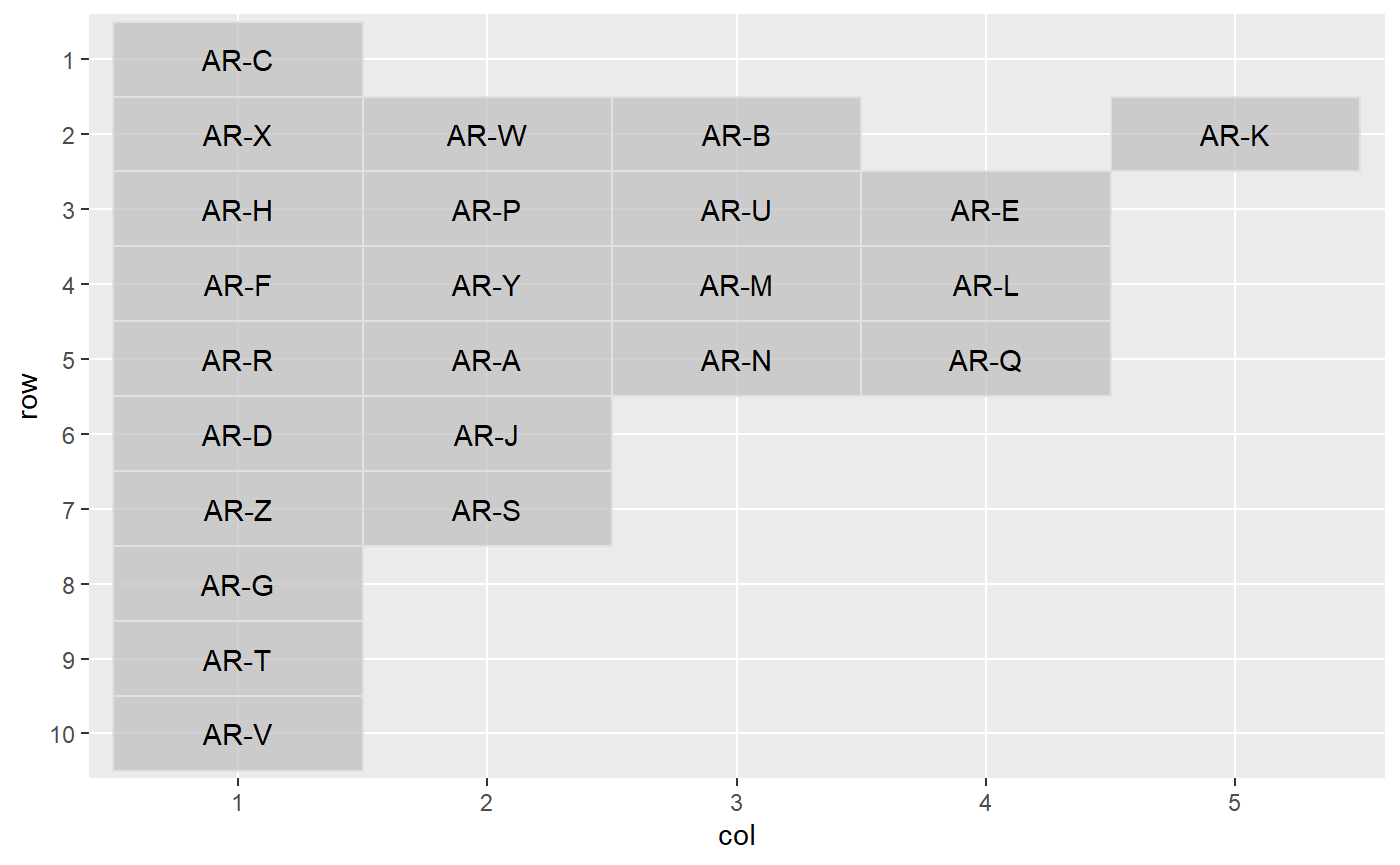
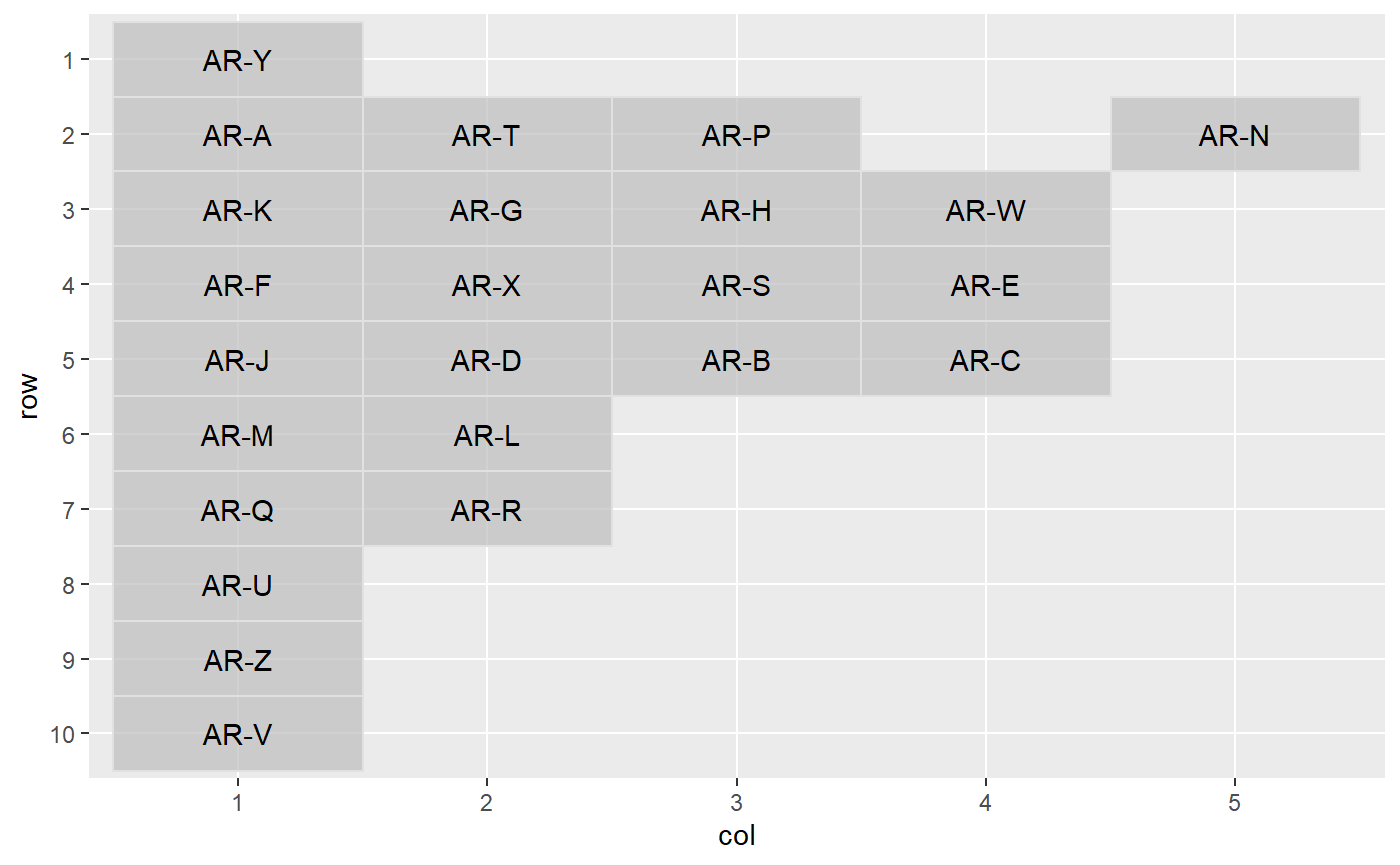
fix site example bugs
recode_district()

diff --git a/docs/articles/recodificacion.html b/docs/articles/recodificacion.html
@@ -94,6 +94,7 @@
     
 <div class="sourceCode" id="cb1"><html><body><pre class="r"><span class="fu"><a href="https://rdrr.io/r/base/library.html">library</a></span>(<span class="no">geofaceteAR</span>)
 <span class="co">#&gt; Loading required package: geofacet</span>
+<span class="co">#&gt; Warning: package 'geofacet' was built under R version 3.6.3</span>
 <span class="co">#&gt; Registered S3 method overwritten by 'geofacet':</span>
 <span class="co">#&gt;   method from   </span>
 <span class="co">#&gt;   +.gg   ggplot2</span>
@@ -139,31 +140,31 @@
 <span class="no">argentina_indec</span> <span class="kw">&lt;-</span> <span class="fu"><a href="../reference/get_grid.html">get_grid</a></span>(<span class="st">"ARGENTINA"</span>) <span class="kw">%&gt;%</span>
   <span class="fu"><a href="../reference/recode_district.html">recode_district</a></span>(<span class="kw">type</span> <span class="kw">=</span> <span class="st">"indec"</span>)</pre></body></html></div>
 <p>Imprimimoos los de <code>argentina_indec</code> y observamos los cambios en <code>code</code>:</p>
-<pre><code>#&gt;    name_provincia row col code                name
-#&gt; 1       ARGENTINA   1   1   02               JUJUY
-#&gt; 2       ARGENTINA   2   3   06             FORMOSA
-#&gt; 3       ARGENTINA   2   5   10            MISIONES
-#&gt; 4       ARGENTINA   2   1   14               SALTA
-#&gt; 5       ARGENTINA   2   2   18             TUCUMAN
-#&gt; 6       ARGENTINA   3   1   22           CATAMARCA
-#&gt; 7       ARGENTINA   3   3   26               CHACO
-#&gt; 8       ARGENTINA   3   4   30          CORRIENTES
-#&gt; 9       ARGENTINA   3   2   34 SANTIAGO DEL ESTERO
-#&gt; 10      ARGENTINA   4   2   38             CORDOBA
-#&gt; 11      ARGENTINA   4   4   42          ENTRE RIOS
-#&gt; 12      ARGENTINA   4   1   46            LA RIOJA
-#&gt; 13      ARGENTINA   4   3   50            SANTA FE
-#&gt; 14      ARGENTINA   5   3   54        BUENOS AIRES
-#&gt; 15      ARGENTINA   5   4   58                CABA
-#&gt; 16      ARGENTINA   5   1   62            SAN JUAN
-#&gt; 17      ARGENTINA   5   2   66            SAN LUIS
-#&gt; 18      ARGENTINA   6   2   70            LA PAMPA
-#&gt; 19      ARGENTINA   6   1   74             MENDOZA
-#&gt; 20      ARGENTINA   7   1   78             NEUQUEN
-#&gt; 21      ARGENTINA   7   2   82           RIO NEGRO
-#&gt; 22      ARGENTINA   8   1   86              CHUBUT
-#&gt; 23      ARGENTINA   9   1   90          SANTA CRUZ
-#&gt; 24      ARGENTINA  10   1   94    TIERRA DEL FUEGO</code></pre>
+<pre><code>#&gt;    row col                name code
+#&gt; 1    1   1               JUJUY   38
+#&gt; 2    2   3             FORMOSA   34
+#&gt; 3    2   5            MISIONES   54
+#&gt; 4    2   1               SALTA   66
+#&gt; 5    2   2             TUCUMAN   90
+#&gt; 6    3   1           CATAMARCA   10
+#&gt; 7    3   3               CHACO   22
+#&gt; 8    3   4          CORRIENTES   18
+#&gt; 9    3   2 SANTIAGO DEL ESTERO   86
+#&gt; 10   4   2             CORDOBA   14
+#&gt; 11   4   4          ENTRE RIOS   30
+#&gt; 12   4   1            LA RIOJA   46
+#&gt; 13   4   3            SANTA FE   82
+#&gt; 14   5   3        BUENOS AIRES   06
+#&gt; 15   5   4                CABA   02
+#&gt; 16   5   1            SAN JUAN   70
+#&gt; 17   5   2            SAN LUIS   74
+#&gt; 18   6   2            LA PAMPA   42
+#&gt; 19   6   1             MENDOZA   50
+#&gt; 20   7   1             NEUQUEN   58
+#&gt; 21   7   2           RIO NEGRO   62
+#&gt; 22   8   1              CHUBUT   26
+#&gt; 23   9   1          SANTA CRUZ   78
+#&gt; 24  10   1    TIERRA DEL FUEGO   94</code></pre>
 <p>Estos comandos pueden ser utiles para <em>linkear</em> más facilmente una base de datos que estemos usando, con <code>id</code> de distrito especifico, con la grilla correspondiente para un gráfico de <code>ggplot2</code>. De esta forma podemos acomodar las funciones <code>facet</code> con una aproximación geográfica con <code>facet_geo</code>de <code>geofacet</code>. Otro ejemplo de esto puede encontrarse en este <a href="https://tuqmano.github.io/2019/01/21/geofacetear/">post</a>.</p>
 <p>Todas las funciones de <code>geofacet</code> están disponibles al cargar <code>geofaceteAR</code>. Así, por ejemplo, podemos inspeccionar el diseño de las grillas con <code>grid_preview()</code>:</p>
 <p><img src="recodificacion_files/figure-html/unnamed-chunk-6-1.png" width="700"></p>

diff --git a/docs/reference/recode_district.html b/docs/reference/recode_district.html
@@ -193,31 +193,31 @@ muchos años de la tarea del escrutinio provisorio y utilizados en <a href='http
 #&gt; 24      ARGENTINA  10   1   24    TIERRA DEL FUEGO</div><div class='input'>
 
 <span class='fu'><a href='get_grid.html'>get_grid</a></span>(<span class='st'>"ARGENTINA"</span>) <span class='kw'>%&gt;%</span>
-   <span class='fu'>recode_district</span>(<span class='kw'>type</span> <span class='kw'>=</span> <span class='st'>"iso"</span>)</div><div class='output co'>#&gt;    name_provincia row col code                name
-#&gt; 1       ARGENTINA   1   1 AR-C               JUJUY
-#&gt; 2       ARGENTINA   2   3 AR-B             FORMOSA
-#&gt; 3       ARGENTINA   2   5 AR-K            MISIONES
-#&gt; 4       ARGENTINA   2   1 AR-X               SALTA
-#&gt; 5       ARGENTINA   2   2 AR-W             TUCUMAN
-#&gt; 6       ARGENTINA   3   1 AR-H           CATAMARCA
-#&gt; 7       ARGENTINA   3   3 AR-U               CHACO
-#&gt; 8       ARGENTINA   3   4 AR-E          CORRIENTES
-#&gt; 9       ARGENTINA   3   2 AR-P SANTIAGO DEL ESTERO
-#&gt; 10      ARGENTINA   4   2 AR-Y             CORDOBA
-#&gt; 11      ARGENTINA   4   4 AR-L          ENTRE RIOS
-#&gt; 12      ARGENTINA   4   1 AR-F            LA RIOJA
-#&gt; 13      ARGENTINA   4   3 AR-M            SANTA FE
-#&gt; 14      ARGENTINA   5   3 AR-N        BUENOS AIRES
-#&gt; 15      ARGENTINA   5   4 AR-Q                CABA
-#&gt; 16      ARGENTINA   5   1 AR-R            SAN JUAN
-#&gt; 17      ARGENTINA   5   2 AR-A            SAN LUIS
-#&gt; 18      ARGENTINA   6   2 AR-J            LA PAMPA
-#&gt; 19      ARGENTINA   6   1 AR-D             MENDOZA
-#&gt; 20      ARGENTINA   7   1 AR-Z             NEUQUEN
-#&gt; 21      ARGENTINA   7   2 AR-S           RIO NEGRO
-#&gt; 22      ARGENTINA   8   1 AR-G              CHUBUT
-#&gt; 23      ARGENTINA   9   1 AR-T          SANTA CRUZ
-#&gt; 24      ARGENTINA  10   1 AR-V    TIERRA DEL FUEGO</div><div class='input'>
+   <span class='fu'>recode_district</span>(<span class='kw'>type</span> <span class='kw'>=</span> <span class='st'>"iso"</span>)</div><div class='output co'>#&gt;    row col                name code
+#&gt; 1    1   1               JUJUY AR-Y
+#&gt; 2    2   3             FORMOSA AR-P
+#&gt; 3    2   5            MISIONES AR-N
+#&gt; 4    2   1               SALTA AR-A
+#&gt; 5    2   2             TUCUMAN AR-T
+#&gt; 6    3   1           CATAMARCA AR-K
+#&gt; 7    3   3               CHACO AR-H
+#&gt; 8    3   4          CORRIENTES AR-W
+#&gt; 9    3   2 SANTIAGO DEL ESTERO AR-G
+#&gt; 10   4   2             CORDOBA AR-X
+#&gt; 11   4   4          ENTRE RIOS AR-E
+#&gt; 12   4   1            LA RIOJA AR-F
+#&gt; 13   4   3            SANTA FE AR-S
+#&gt; 14   5   3        BUENOS AIRES AR-B
+#&gt; 15   5   4                CABA AR-C
+#&gt; 16   5   1            SAN JUAN AR-J
+#&gt; 17   5   2            SAN LUIS AR-D
+#&gt; 18   6   2            LA PAMPA AR-L
+#&gt; 19   6   1             MENDOZA AR-M
+#&gt; 20   7   1             NEUQUEN AR-Q
+#&gt; 21   7   2           RIO NEGRO AR-R
+#&gt; 22   8   1              CHUBUT AR-U
+#&gt; 23   9   1          SANTA CRUZ AR-Z
+#&gt; 24  10   1    TIERRA DEL FUEGO AR-V</div><div class='input'>
 
 </div></pre>
   </div>

diff --git a/docs/reference/show_arg_codes.html b/docs/reference/show_arg_codes.html
@@ -150,20 +150,20 @@
 
     <h2 class="hasAnchor" id="examples"><a class="anchor" href="#examples"></a>Examples</h2>
     <pre class="examples"><div class='input'>
-<span class='fu'>show_arg_codes</span>(<span class='kw'>viewer</span> <span class='kw'>=</span> <span class='fl'>FALSE</span>)</div><div class='output co'>#&gt; # A tibble: 24 x 5
+<span class='fu'>show_arg_codes</span>(<span class='kw'>viewer</span> <span class='kw'>=</span> <span class='fl'>FALSE</span>)</div><div class='output co'>#&gt; # A tibble: 25 x 5
 #&gt;    id           codprov codprov_censo codprov_iso name_iso                      
 #&gt;    &lt;chr&gt;        &lt;chr&gt;   &lt;chr&gt;         &lt;chr&gt;       &lt;chr&gt;                         
-#&gt;  1 CABA         01      02            AR-C        Ciudad Autónoma de Buenos Air~
-#&gt;  2 BUENOS AIRES 02      06            AR-B        Buenos Aires                  
-#&gt;  3 CATAMARCA    03      10            AR-K        Catamarca                     
-#&gt;  4 CORDOBA      04      14            AR-X        Córdoba                       
-#&gt;  5 CORRIENTES   05      18            AR-W        Corrientes                    
-#&gt;  6 CHACO        06      22            AR-H        Chaco                         
-#&gt;  7 CHUBUT       07      26            AR-U        Chubut                        
-#&gt;  8 ENTRE RIOS   08      30            AR-E        Entre Ríos                    
-#&gt;  9 FORMOSA      09      34            AR-P        Formosa                       
-#&gt; 10 JUJUY        10      38            AR-Y        Jujuy                         
-#&gt; # ... with 14 more rows</div><div class='input'>
+#&gt;  1 ARGENTINA    " "     " "           AR          Argentina                     
+#&gt;  2 CABA         "01"    "02"          AR-C        Ciudad Autónoma de Buenos Air~
+#&gt;  3 BUENOS AIRES "02"    "06"          AR-B        Buenos Aires                  
+#&gt;  4 CATAMARCA    "03"    "10"          AR-K        Catamarca                     
+#&gt;  5 CORDOBA      "04"    "14"          AR-X        Córdoba                       
+#&gt;  6 CORRIENTES   "05"    "18"          AR-W        Corrientes                    
+#&gt;  7 CHACO        "06"    "22"          AR-H        Chaco                         
+#&gt;  8 CHUBUT       "07"    "26"          AR-U        Chubut                        
+#&gt;  9 ENTRE RIOS   "08"    "30"          AR-E        Entre Ríos                    
+#&gt; 10 FORMOSA      "09"    "34"          AR-P        Formosa                       
+#&gt; # ... with 15 more rows</div><div class='input'>
 </div></pre>
   </div>
   <div class="col-md-3 hidden-xs hidden-sm" id="pkgdown-sidebar">
